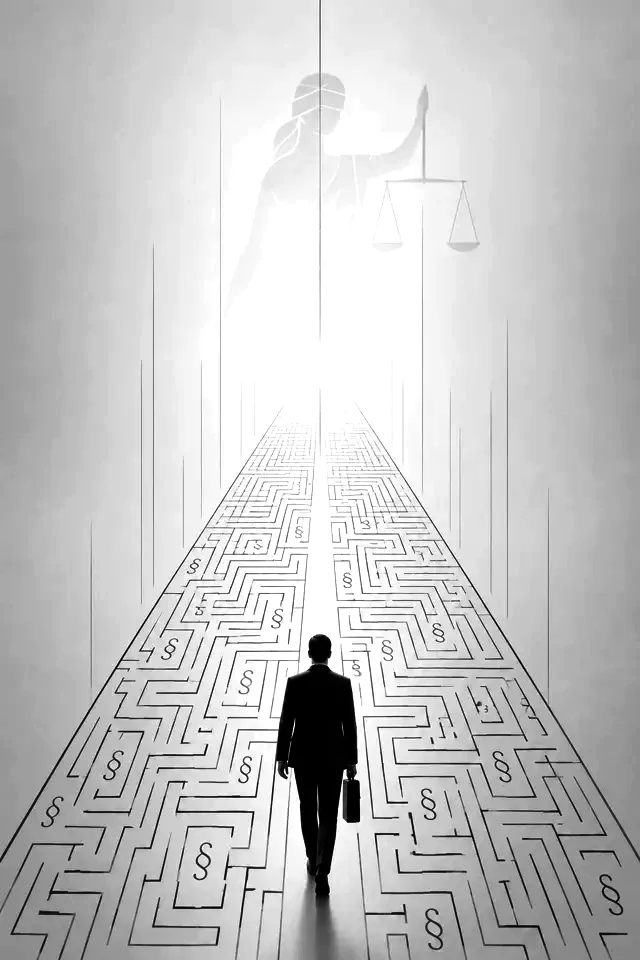
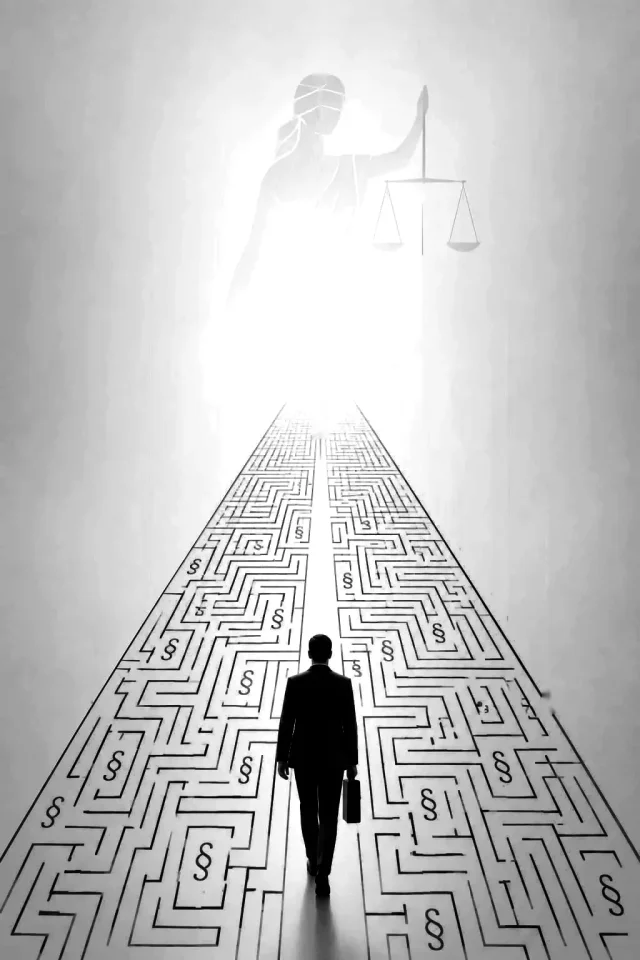
Hero: odstránené zvislé čiary, väčší obrázok, čistejšie bludisko

diff --git a/style.css b/style.css
@@ -46,3 +46,7 @@ footer button{font:inherit;color:var(--n);background:none;border:1px solid #c9cd
 .hero-i{width:50%;display:flex;justify-content:flex-end;padding-right:4vw}
 .hero-i img{width:auto;height:100%;max-width:100%;object-fit:contain;object-position:50% 50%;-webkit-mask-image:linear-gradient(90deg,transparent,#000 22%,#000 78%,transparent),linear-gradient(180deg,transparent,#000 8%,#000 92%,transparent);mask-image:linear-gradient(90deg,transparent,#000 22%,#000 78%,transparent),linear-gradient(180deg,transparent,#000 8%,#000 92%,transparent);-webkit-mask-composite:source-in;mask-composite:intersect}
 @media(max-width:700px){.logo svg{height:34px}.hero-i{width:100%;height:300px;justify-content:center;padding:0;margin-top:0}.hero-i img{-webkit-mask-image:linear-gradient(180deg,transparent,#000 12%,#000 88%,transparent);mask-image:linear-gradient(180deg,transparent,#000 12%,#000 88%,transparent);object-position:50% 50%}}
+.hero{min-height:620px}
+.hero-i{width:60%;padding-right:0;justify-content:flex-end}
+.hero-i img{width:100%;height:100%;object-fit:cover;object-position:50% 86%;-webkit-mask-image:linear-gradient(90deg,transparent,#000 24%);mask-image:linear-gradient(90deg,transparent,#000 24%);-webkit-mask-composite:source-over;mask-composite:add}
+@media(max-width:700px){.hero{min-height:0}.hero-i{width:100%;height:420px}.hero-i img{object-position:50% 80%;-webkit-mask-image:linear-gradient(180deg,transparent,#000 12%);mask-image:linear-gradient(180deg,transparent,#000 12%)}}

diff --git a/index.html b/index.html
@@ -14,7 +14,7 @@
 <p class="lead">Napíšte nám, čo potrebujete, a my Vám poradíme, ako to dosiahnuť pri minimalizácii právnych rizík.</p>
 <p class="cta"><a class="btn" href="#kontakt">Dohodnúť si konzultáciu →</a><a class="ic" href="mailto:peter.lacko@proiure.sk" aria-label="Napísať e-mail"><svg viewBox="0 0 24 24"><path d="M3 6h18v12H3zM3 7l9 7 9-7"/></svg></a><a class="ic" href="tel:+421948884242" aria-label="Zavolať"><svg viewBox="0 0 24 24"><path d="M6 3l3 1 1 4-2 1.5a11 11 0 0 0 6.500 6.500L16 14l4 1 1 3-2 2.500C11 21 3 13 3.500 5z"/></svg></a></p>
 </div>
-<picture class="hero-i"><source media="(max-width:700px)" srcset="img/hero-640.webp?v=2"><img src="img/hero.webp?v=2" width="1024" height="1536" alt="Muž s aktovkou kráča bludiskom paragrafov k sochárskej postave spravodlivosti s váhami"></picture>
+<picture class="hero-i"><source media="(max-width:700px)" srcset="img/hero-640.webp?v=3"><img src="img/hero.webp?v=3" width="1024" height="1536" alt="Muž s aktovkou kráča bludiskom paragrafov k sochárskej postave spravodlivosti s váhami"></picture>
 </section>
 <section id="sluzby" class="sec"><h2>Akú právnu službu potrebujete?</h2>
 <p class="sub">Vyberte si oblasť, ktorá najlepšie vystihuje Váš právny problém. Alebo nám rovno napíšte.</p>
